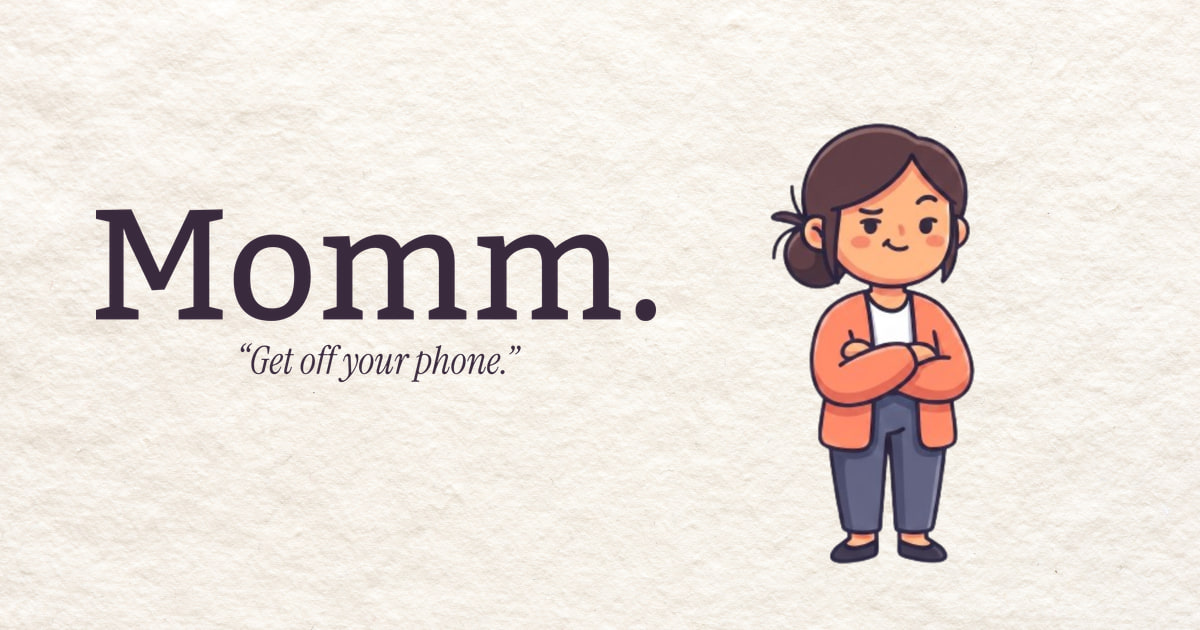
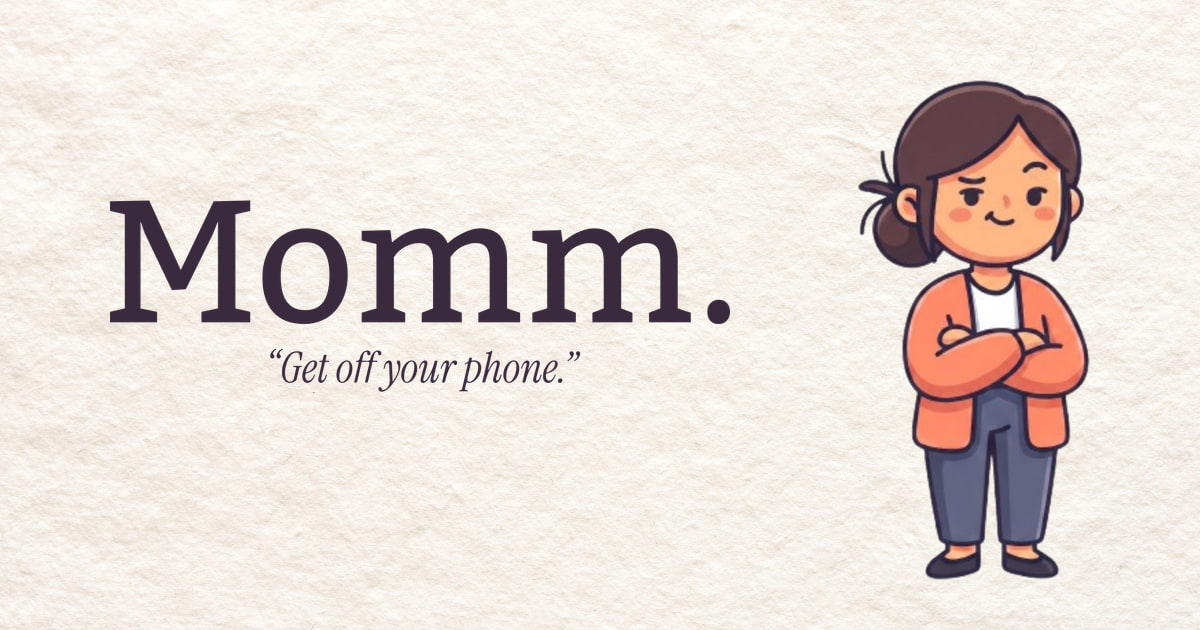
L

diff --git a/scripts/brand.js b/scripts/brand.js
@@ -168,13 +168,61 @@ async function cutout(input, tolerance = 26) {
     if (y < H - 1) push(p + W);
   }
 
+  /**
+   * Then throw away everything that isn't her.
+   *
+   * What's left after the flood is the figure *plus* every fleck of dust
+   * in the photographed paper, because a speck is not paper-coloured and
+   * a speck in open space is not reachable from the frame's edge either.
+   * A handful of stray dark pixels are invisible in the original and
+   * ruinous once it's an asset: they're scattered corner to corner, so the
+   * drawing's bounding box becomes the whole 2000² frame and she ships at
+   * a tenth of the size she should be, adrift in her own padding.
+   *
+   * She is one drawing, so she is one connected run of pixels — the
+   * largest one. Everything else is dust.
+   */
+  const seen = new Uint8Array(W * H);
+  let best = null;
+  let bestSize = 0;
+  for (let s = 0; s < W * H; s++) {
+    if (bg[s] || seen[s]) continue;
+    const component = [];
+    seen[s] = 1;
+    queue[0] = s;
+    head = 0;
+    tail = 1;
+    while (head < tail) {
+      const p = queue[head++];
+      component.push(p);
+      const x = p % W;
+      const y = (p / W) | 0;
+      const step = (q) => {
+        if (!bg[q] && !seen[q]) {
+          seen[q] = 1;
+          queue[tail++] = q;
+        }
+      };
+      if (x > 0) step(p - 1);
+      if (x < W - 1) step(p + 1);
+      if (y > 0) step(p - W);
+      if (y < H - 1) step(p + W);
+    }
+    if (component.length > bestSize) {
+      bestSize = component.length;
+      best = component;
+    }
+  }
+  const keep = new Uint8Array(W * H);
+  for (const p of best) keep[p] = 1;
+
   const out = Buffer.alloc(W * H * 4);
   for (let p = 0; p < W * H; p++) {
     const i = p * C;
     out[p * 4] = data[i];
     out[p * 4 + 1] = data[i + 1];
     out[p * 4 + 2] = data[i + 2];
-    out[p * 4 + 3] = bg[p] ? 0 : 255;
+    out[p * 4 + 3] = keep[p] ? 255 : 0;
   }
   // the flood leaves a hard 1px edge; a hair of blur on alpha alone gives
   // the outline back the antialiasing the original drawing had
@@ -184,7 +232,28 @@ async function cutout(input, tolerance = 26) {
     .toBuffer();
   for (let p = 0; p < W * H; p++) out[p * 4 + 3] = soft[p * 4 + 3];
 
-  return sharp(out, { raw: { width: W, height: H, channels: 4 } }).trim({ threshold: 1 });
+  /**
+   * Cropped here rather than by `trim()`, which cannot do it: trim keys off
+   * the top-left pixel, and every transparent pixel in this buffer still
+   * carries the paper's own RGB — noisy fibre, no two alike — so it finds
+   * no uniform border and hands back the frame it was given.
+   */
+  let x0 = W, x1 = 0, y0 = H, y1 = 0;
+  for (let y = 0; y < H; y++)
+    for (let x = 0; x < W; x++)
+      if (out[(y * W + x) * 4 + 3] > 2) {
+        if (x < x0) x0 = x;
+        if (x > x1) x1 = x;
+        if (y < y0) y0 = y;
+        if (y > y1) y1 = y;
+      }
+
+  return sharp(out, { raw: { width: W, height: H, channels: 4 } }).extract({
+    left: x0,
+    top: y0,
+    width: x1 - x0 + 1,
+    height: y1 - y0 + 1,
+  });
 }
 
 // ── the icon ────────────────────────────────────────────────────────────
@@ -272,11 +341,14 @@ async function ogCard() {
   const { image: lockup } = await inkToAlpha(
     await sharp(src("logo.png")).extract(TAGLINE).toBuffer(),
   );
-  const type = await lockup.trim({ threshold: 6 }).resize({ width: 560 }).png().toBuffer();
+  /** equal air down both edges — the type and the figure are the content */
+  const MARGIN = 110;
+
+  const type = await lockup.trim({ threshold: 6 }).resize({ width: 620 }).png().toBuffer();
   const typeMeta = await sharp(type).metadata();
 
   const figure = await (await cutout(src("logo-momm.png")))
-    .resize({ height: 470 })
+    .resize({ height: 500 })
     .png()
     .toBuffer();
   const figMeta = await sharp(figure).metadata();
@@ -286,16 +358,16 @@ async function ogCard() {
     .composite([
       {
         input: type,
-        left: 96,
+        left: MARGIN,
         top: Math.round((H - typeMeta.height) / 2) - 18,
       },
       {
-        // she stands on the bottom edge, not floating above it, and far
-        // enough right that the full stop after her name isn't touching
-        // her hair — at 620 wide the lockup ran into her
+        // standing on the bottom edge rather than floating above the middle
+        // of it, which is the difference between a figure in a room and a
+        // sticker on a card
         input: figure,
-        left: W - figMeta.width - 72,
-        top: H - figMeta.height - 40,
+        left: W - figMeta.width - MARGIN,
+        top: H - figMeta.height - 50,
       },
     ])
     // paper grain is the worst case for PNG — the same card costs 1.3MB

diff --git a/src/components/scenes/Scene08Footer.tsx b/src/components/scenes/Scene08Footer.tsx
@@ -1,3 +1,4 @@
+import Image from "next/image";
 import { theme } from "@/theme";
 
 /**
@@ -7,12 +8,33 @@ import { theme } from "@/theme";
  * along here like photos on a fridge; without them this is just the sign-off,
  * which is what the last thing on a note from your mother should be.
  *
+ * The one addition is the wordmark, which is the only place on the site the
+ * name is set in type rather than written by her — a footer is where a
+ * reader looks for whose site this was, and "— momm" in ballpoint answers
+ * who wrote the note, not who made the thing. Above the rule, so the plate
+ * reads as the mark and everything under it as the sign-off.
+ *
+ * It's shipped as artwork rather than reset in Bitter because the logo's
+ * face isn't Bitter, and a wordmark redrawn in whatever the site happens to
+ * load is a wordmark you no longer own. `public/brand/wordmark.webp` has had
+ * its own paper cut away by `npm run brand`, so what shows through the
+ * counters is this sheet's fibre.
+ *
  * Extra headroom because this sheet is taped down: the strips hang above the
  * act's top edge, and the divider shouldn't collide with them.
  */
 export default function Scene08Footer() {
   return (
     <footer className="flex flex-col items-center gap-6 px-6 pb-12 pt-14 text-center">
+      <Image
+        src="/brand/wordmark.webp"
+        alt="momm"
+        width={900}
+        height={180}
+        className="h-auto w-[9.5rem] opacity-90 md:w-[11rem]"
+        sizes="(max-width: 768px) 152px, 176px"
+      />
+
       <div
         className="h-px w-40"
         style={{ backgroundColor: theme.onDoor + "2E" }}

diff --git a/src/app/layout.tsx b/src/app/layout.tsx
@@ -28,11 +28,34 @@ const caveat = Caveat({
   variable: "--font-caveat",
 });
 
+/**
+ * Absolute URLs for the social card. Vercel hands us the deployment host
+ * for free; `NEXT_PUBLIC_SITE_URL` overrides it once there's a real
+ * domain, and localhost keeps `next build` from warning in between.
+ */
+const siteUrl =
+  process.env.NEXT_PUBLIC_SITE_URL ??
+  (process.env.VERCEL_PROJECT_PRODUCTION_URL
+    ? `https://${process.env.VERCEL_PROJECT_PRODUCTION_URL}`
+    : "http://localhost:3000");
+
+const title = "momm — get off your phone.";
+const description =
+  "The screen-time app that nags like your mom, because she was right. Join the waitlist.";
+
+/**
+ * The icons and the social card aren't declared here: `favicon.ico`,
+ * `icon.png`, `apple-icon.png`, `opengraph-image.jpg` and
+ * `twitter-image.jpg` sit next to this file and Next picks them up by
+ * name, tags, dimensions and all. All five are built from the originals
+ * in `public/momm-images/` by `npm run brand` — edit those, not these.
+ */
 export const metadata: Metadata = {
-  title: "momm — get off your phone.",
-  description:
-    "The screen-time app that nags like your mom, because she was right. Join the waitlist.",
-  icons: { icon: "/logo.png" },
+  metadataBase: new URL(siteUrl),
+  title,
+  description,
+  openGraph: { title, description, url: "/", siteName: "momm", type: "website" },
+  twitter: { card: "summary_large_image", title, description },
 };
 
 export default function RootLayout({

diff --git a/README.md b/README.md
@@ -26,6 +26,31 @@ on the deployment's `.convex.site` domain, authenticated with a shared
 backend ships in the browser bundle. Changing what a signup *does* means editing
 `momm-app/convex/waitlist.ts`, not this repo.
 
+## The logo
+
+The five originals live in `public/momm-images/` and are never served —
+they're 2000px PNGs of ink on photographed paper, six megabytes each.
+Everything the site actually shows is built from them:
+
+```bash
+npm run brand
+```
+
+That writes the favicon (`.ico`, 16/32/48), `icon.png`, `apple-icon.png` and
+the 1200×630 social card into `src/app/`, where Next picks all five up by
+filename — which is why `layout.tsx` declares no `icons` at all — plus the
+transparent wordmark and figure into `public/brand/`.
+
+"Transparent" is the point: the originals carry their own cream paper, and
+dropping that onto the site's cream paper leaves a visible rectangle, because
+no two photographs of paper are the same cream. The script lifts the ink off
+its background (flat type by coverage, the drawing by flood-filling in from
+the frame edge) so the page's own fibre shows through. Re-run it after
+changing anything in `momm-images/`; don't hand-edit the outputs.
+
+Set `NEXT_PUBLIC_SITE_URL` in production so the social card's `og:image` URL
+is absolute. On Vercel the deployment host is used automatically.
+
 ## Change the colors
 
 All colors live in **`src/theme.ts`** — swap `gradient.from` (top) and
